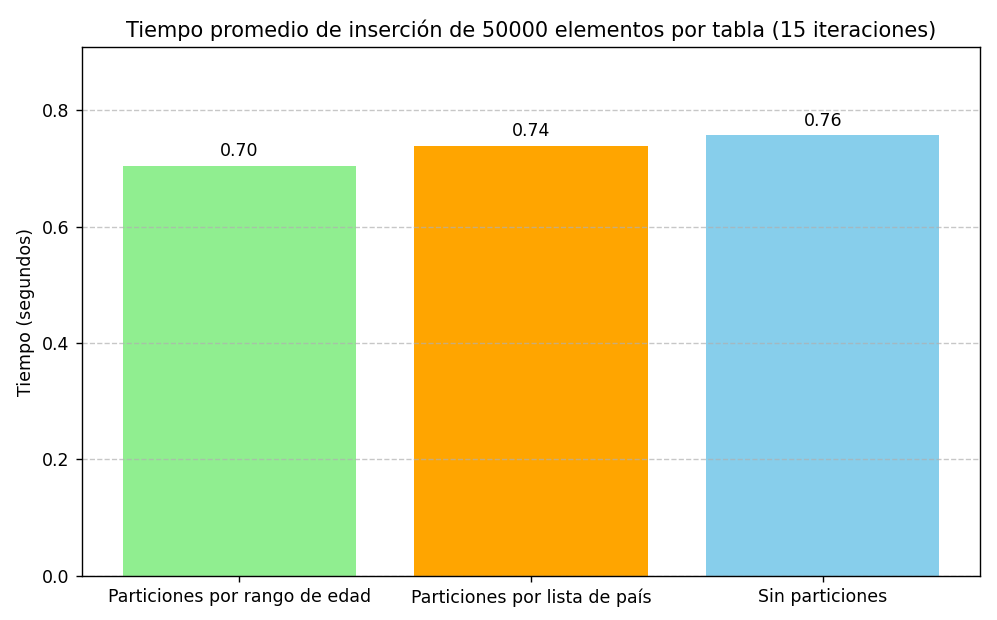
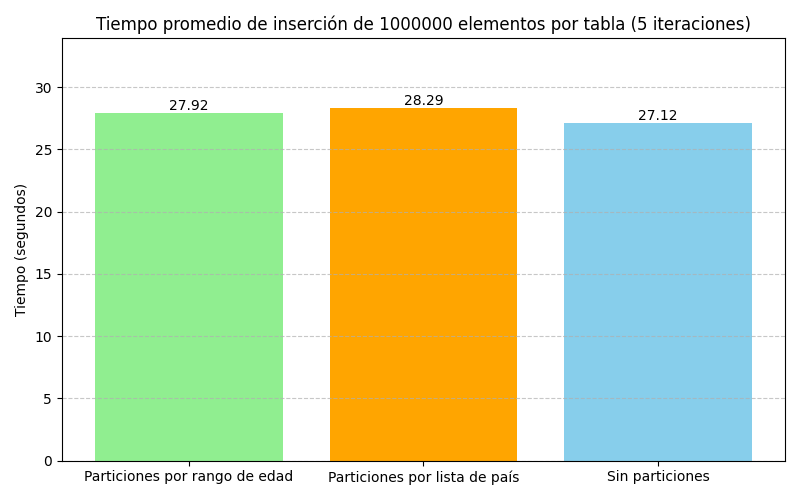
best result yet

Changed region(s): [[0.0, 0.03, 1.0, 0.99], [0.1875, 0.15, 0.2188, 0.18]]

diff --git a/main.py b/main.py
@@ -28,10 +28,12 @@ JDBC_DRIVER_CLASS = "com.ibm.db2.jcc.DB2Driver"
 # Sample data
 COUNTRIES = ['UY', 'AR', 'BR']
 NAMES = ['Alice', 'Bob', 'Charlie', 'Diana', 'Eva', 'Frank', 'Grace', 'Henry']
-USER_AMOUNT = 10000000  # Total number of users to generate
-TEST_AMOUNT = 20 # Number of iterations for the benchmark
 
-# Function to generate users
+USER_AMOUNT = 1000000  # Total number of users to generate
+TEST_AMOUNT = 5 # Number of iterations for the benchmark
+BATCH_SIZE = 10000  # Size of each batch for insertion
+
+# Function to generate users randomly
 def generate_users(n):
     print(f"Generating {n} users...")
     users = []
@@ -42,6 +44,54 @@ def generate_users(n):
         users.append((i, name, age, country))
     return users
 
+# Function to generate users evenly distributed across age ranges and countries
+def generate_users_evenly(n):
+    print(f"Generating {n} users...")
+    users = []
+    
+    # Age groups: 0-25, 26-50, 51-150
+    age_groups = [
+        (5, 25),    # Young (using 5 as minimum instead of 0)
+        (26, 50),   # Middle
+        (51, 99)    # Senior (using 99 as maximum instead of 150)
+    ]
+    
+    countries = COUNTRIES  # ['UY', 'AR', 'BR']
+    
+    # Calculate users per country and per age group
+    users_per_country = n // len(countries)
+    users_per_age_group = users_per_country // len(age_groups)
+    
+    user_id = 1
+    
+    for country in countries:
+        for age_min, age_max in age_groups:
+            # Generate users for this country and age group
+            for i in range(users_per_age_group):
+                if user_id > n:  # Don't exceed the requested number
+                    break
+                    
+                name = NAMES[(user_id - 1) % len(NAMES)]  # Cycle through names
+                # Distribute ages evenly within the range
+                age_range = age_max - age_min + 1
+                age = age_min + (i % age_range)
+                
+                users.append((user_id, name, age, country))
+                user_id += 1
+    
+    # Handle any remaining users due to rounding
+    remaining = n - (user_id - 1)
+    for i in range(remaining):
+        if user_id > n:
+            break
+        name = NAMES[(user_id - 1) % len(NAMES)]
+        age = 5 + (i % 95)  # Distribute remaining ages
+        country = countries[i % len(countries)]
+        users.append((user_id, name, age, country))
+        user_id += 1
+    
+    return users
+
 # Connect to DB2
 conn = jaydebeapi.connect(JDBC_DRIVER_CLASS, JDBC_URL, [USERNAME, PASSWORD])
 cursor = conn.cursor()
@@ -49,30 +99,48 @@ cursor = conn.cursor()
 def delete_users_in_tables(cursor):
     print("Deleting existing tables...")
     cursor.execute("DELETE FROM users_range")
+    conn.commit()  
     cursor.execute("DELETE FROM users_list")
+    conn.commit()
     cursor.execute("DELETE FROM users")
+    conn.commit()
 
 def insert_users_range(cursor, users):
     print("Inserting into users_range...")
     start = time.perf_counter()
-    for user in users:
-        cursor.execute("INSERT INTO users_range (id, name, age, country_code) VALUES (?, ?, ?, ?)", user)
+
+    for i in range(0, len(users), BATCH_SIZE):
+        batch = users[i:i + BATCH_SIZE]
+        cursor.executemany("INSERT INTO users_range (id, name, age, country_code) VALUES (?, ?, ?, ?)", batch)
+        conn.commit()
+        print(f"Committed batch {i//BATCH_SIZE + 1}: rows {i+1} to {min(i+BATCH_SIZE, len(users))}")
+    
     end = time.perf_counter()
     return end - start
 
 def insert_users_list(cursor, users):
     print("Inserting into users_list...")
     start = time.perf_counter()
-    for user in users:
-        cursor.execute("INSERT INTO users_list (id, name, age, country_code) VALUES (?, ?, ?, ?)", user)
+    
+    for i in range(0, len(users), BATCH_SIZE):
+        batch = users[i:i + BATCH_SIZE]
+        cursor.executemany("INSERT INTO users_list (id, name, age, country_code) VALUES (?, ?, ?, ?)", batch)
+        conn.commit()
+        print(f"Committed batch {i//BATCH_SIZE + 1}: rows {i+1} to {min(i+BATCH_SIZE, len(users))}")
+    
     end = time.perf_counter()
     return end - start
 
 def insert_users(cursor, users):
     print("Inserting into users...")
     start = time.perf_counter()
-    for user in users:
-        cursor.execute("INSERT INTO users (id, name, age, country_code) VALUES (?, ?, ?, ?)", user)
+    
+    for i in range(0, len(users), BATCH_SIZE):
+        batch = users[i:i + BATCH_SIZE]
+        cursor.executemany("INSERT INTO users (id, name, age, country_code) VALUES (?, ?, ?, ?)", batch)
+        conn.commit()
+        print(f"Committed batch {i//BATCH_SIZE + 1}: rows {i+1} to {min(i+BATCH_SIZE, len(users))}")
+    
     end = time.perf_counter()
     return end - start
 
@@ -97,6 +165,7 @@ def create_bar_graph(timeRange, timeList, timeUsers):
     plt.close()
 
 def benchmark_and_insert(cursor):
+    conn.commit()
     tables = ['users', 'users_list', 'users_range']
     queries = {
         'País = UY': "SELECT * FROM {table} WHERE country_code = 'UY'",
@@ -109,10 +178,9 @@ def benchmark_and_insert(cursor):
 
     for i in range(TEST_AMOUNT):
         print(f"\n--- Iteration {i + 1}/{TEST_AMOUNT} ---")
-        users = generate_users(USER_AMOUNT)
-        delete_users_in_tables(cursor)
+        users = generate_users_evenly(USER_AMOUNT)
 
-        conn.commit()
+        conn.commit()  # Commit deletion before insertion
 
         # Insert and time
         timeRange = insert_users_range(cursor, users)
@@ -123,8 +191,6 @@ def benchmark_and_insert(cursor):
         total_time['users_list'] += timeList
         total_time['users'] += timeUsers
 
-        conn.commit()
-
         # Query and time
         for query_name, query in queries.items():
             for table in tables:
@@ -133,13 +199,13 @@ def benchmark_and_insert(cursor):
                 cursor.fetchall()
                 q_end = time.perf_counter()
                 results[query_name][table] += (q_end - q_start)
+        
+        conn.commit()  # Commit after queries
 
     avg_time = {table: total_time[table] / TEST_AMOUNT for table in tables}
     for query_name in results:
         for table in results[query_name]:
             results[query_name][table] /= TEST_AMOUNT
-
-    conn.commit()
 
     return avg_time, results
 
@@ -191,8 +257,6 @@ for query_name, table_times in results.items():
         print(f"  {table}: {avg_query_time:.4f} s")
 
 delete_users_in_tables(cursor)
-
-conn.commit()
 cursor.close()
 conn.close()
 
